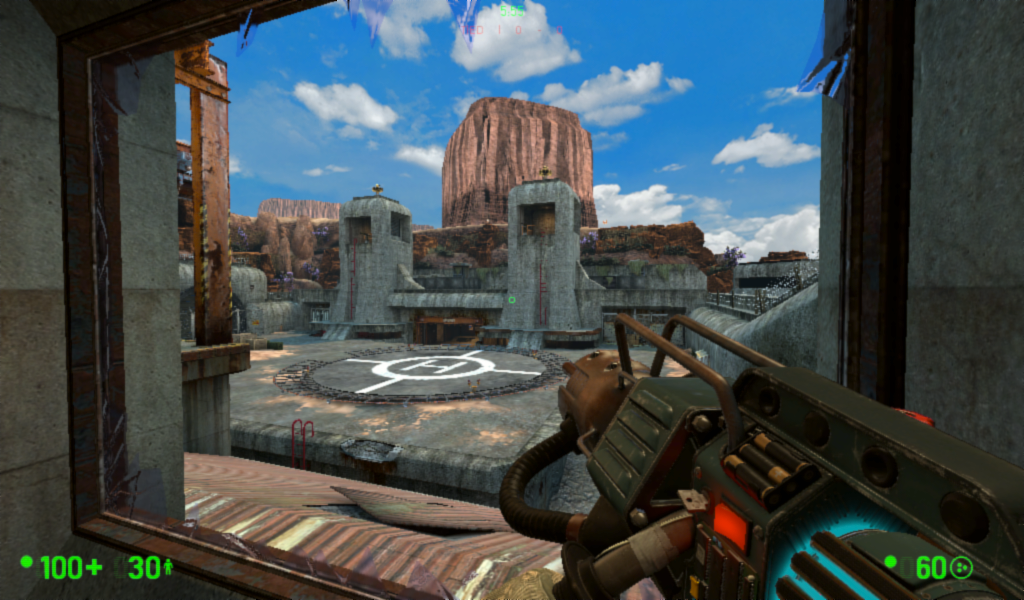
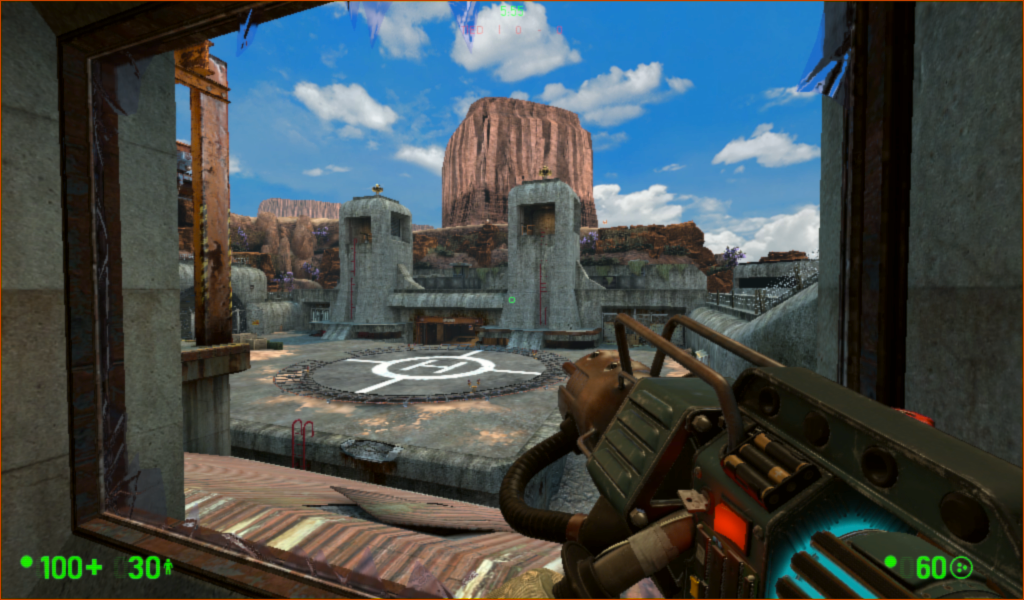
completed initial C++ port of AA! (MUCH faster than pyhton) :D

diff --git a/aa.cpp b/aa.cpp
@@ -3,14 +3,15 @@
 // sudo apt update
 // sudo apt install libopencv-dev
 
-#include <opencv2/highgui.hpp>
+#include <opencv2/opencv.hpp>
 #include <iostream>
+#include "aa.h"
 
 int main(int argc, char** argv)
 {
 
   cv::Mat input;
-  input = cv::imread("src_img/1080p.png", CV_LOAD_IMAGE_COLOR);
+  input = cv::imread("src_img/600p.png", CV_LOAD_IMAGE_COLOR);
 
   if (!input.data)
   {
@@ -18,35 +19,48 @@ int main(int argc, char** argv)
       return -1;
   }
 
-  cv::Mat* output = antialias(&input);
+  // create an empty matrix to hold antialiased image
+  cv::Mat aa(input.size().height, input.size().width, CV_8UC3);
 
-  cv::namedWindow( "Display window", cv::WINDOW_AUTOSIZE );
-  cv::imshow( "Display window", *output );
+  // convert to Lab colorspace
+  cv::cvtColor(input, input, cv::COLOR_RGB2Lab);
 
-  cv::waitKey(0);
+  cv::Mat* input_p = &input;
+  cv::Mat* aa_p = &aa;
+
+  // perform 2xAA (reassign ptr to make it easy to reapply ixAA)
+  for (int i = 0; i < 2; i++)
+  {
+    antialias(input_p, aa_p);
+    input_p = aa_p;
+  }
+
+  // convert back to RGB colorspace
+  cv::cvtColor(aa, aa, cv::COLOR_Lab2RGB);
+
+  cv::imwrite("processed_img/600pAA.png", aa);
+
   return 0;
 }
 
-// performs traversal of matrix 'im' and smooths pixels
-cv::Mat* antialias(cv::Mat* im)
+// performs traversal of matrix 'im' to smooth pixels and stores in 'aa'
+void antialias(cv::Mat* im, cv::Mat* aa)
 {
+  double val = 0;
 
-  // create an empty matrix to hold antialiased image
-  cv::Mat aa(im->size().height, im->size().width, CV_8UC3);
-
-  for (int y = 0; y < im->size().height; y++)
+  // iterate through x and y values, as well as the L*a*b values (c for color)
+  for (int y = 1; y < im->size().height-1; y++)
   {
 
-    for (int x = 0; x < im->size().width; x++)
+    for (int x = 1; x < im->size().width-1; x++)
     {
 
       for (int c = 0; c < 3; c++)
       {
 
         // Amazing formula.  Its really simple too, we just take the average between the (avg of surrounding pixels) & our current pixel
-        aa.at<cv::Vec3b>(y,x)[c] = 1/2 * (im->at<cv::Vec3b>(y,x)[c] + 1/4 * (im->at<cv::Vec3b>(y,x+1)[c] + im->at<cv::Vec3b>(y,x-1)[c]
+        aa->at<cv::Vec3b>(y,x)[c] = (0.5) * (im->at<cv::Vec3b>(y,x)[c] + (0.25) * (im->at<cv::Vec3b>(y,x+1)[c] + im->at<cv::Vec3b>(y,x-1)[c]
                                      + im->at<cv::Vec3b>(y+1,x)[c] + im->at<cv::Vec3b>(y-1,x)[c]));
-        
       }
     }
   }

diff --git a/aa.h b/aa.h
@@ -1,0 +1,3 @@
+#include <opencv2/highgui.hpp>
+
+void antialias(cv::Mat* im, cv::Mat* aa);
